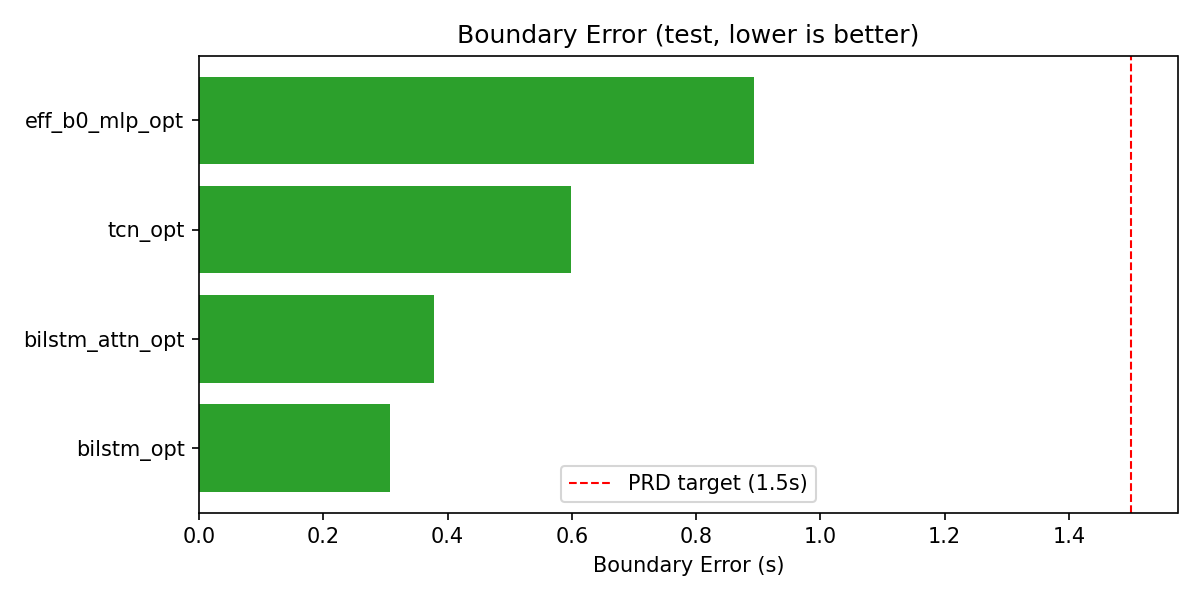
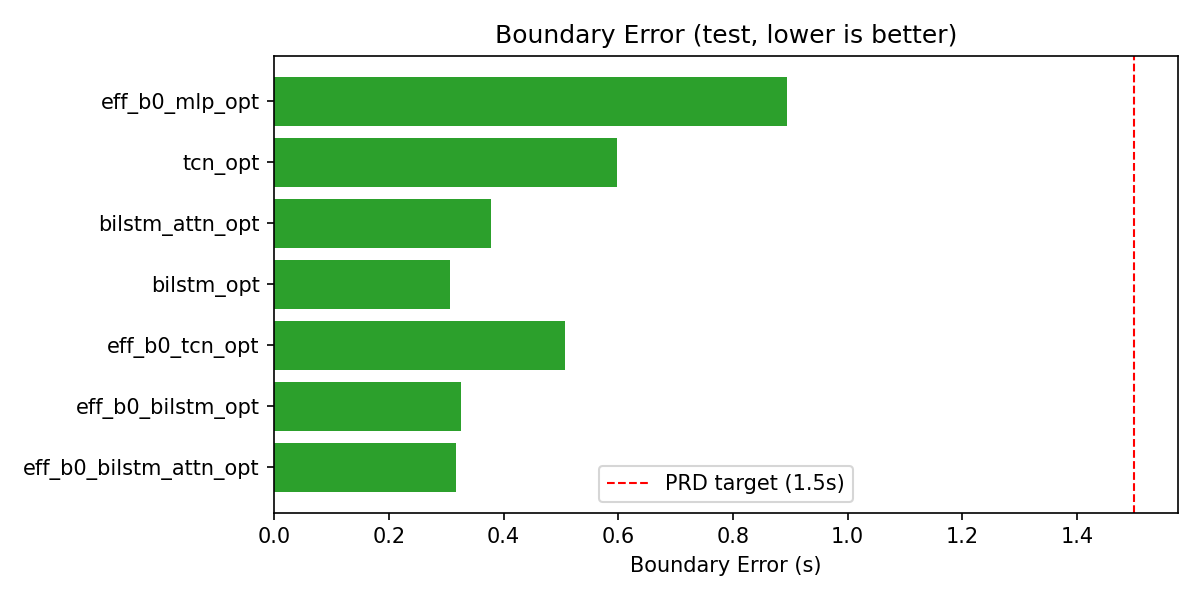
com

diff --git a/src/scripts/generate_plots.py b/src/scripts/generate_plots.py
@@ -59,16 +59,18 @@ PLOTS_DIR = ROOT / "data" / "plots" / "results"
 
 # fmt: off
 # name, map3, map5, map7, precision, recall, be, fps_k, size_mb, valid_map5
+# Источник: compare_models.py, seed=42, opt-конфиг, test split, RTX 5060 Ti
+# Дата последнего измерения: 2026-03-20
 MODELS_SEED42 = [
     # name                      map3   map5   map7   prec   rec    be     fps_k    size_mb  valid_map5
-    ("mv3_small",               0.000, 0.000, 0.000, 0.000, 0.000, None,  1908.3,  4.1,    0.091),
-    ("mv3_bilstm",              0.765, 0.771, 0.617, 0.658, 0.841, 0.310, 237.3,   9.7,    0.795),
-    ("mv3_bilstm_attn",         0.645, 0.687, 0.516, 0.691, 0.794, 0.380, 319.7,   10.6,   0.701),
-    ("mv3_tcn",                 0.690, 0.560, 0.338, 0.568, 0.698, 0.600, 534.4,   7.5,    0.560),
-    ("eff_b0_mlp",              0.182, 0.182, 0.091, 0.545, 0.159, 0.890, 1220.4,  16.5,   0.182),
-    ("eff_b0_bilstm",           0.874, 0.791, 0.762, 0.875, 0.857, 0.330, 147.4,   22.3,   0.894),
-    ("eff_b0_bilstm_attn",      0.857, 0.788, 0.750, 0.833, 0.889, 0.320, 10.1,    87.6,   0.895),
-    ("eff_b0_tcn",              0.977, 0.900, 0.863, 1.000, 1.000, 0.510, 405.4,   21.5,   0.810),
+    ("mv3_small",               0.000, 0.000, 0.000, 0.000, 0.000, None,  1908.3,  4.1,    0.091),  # base конфиг, FPS не переизмерен
+    ("mv3_bilstm",              0.771, 0.771, 0.750, 0.757, 0.841, 0.307, 220.8,   6.4,    0.795),
+    ("mv3_bilstm_attn",         0.762, 0.687, 0.565, 0.758, 0.794, 0.378, 260.3,   6.2,    0.701),
+    ("mv3_tcn",                 0.735, 0.560, 0.295, 0.595, 0.698, 0.598, 499.4,   7.5,    0.560),
+    ("eff_b0_mlp",              0.182, 0.182, 0.091, 0.667, 0.159, 0.894, 883.0,   16.5,   0.182),
+    ("eff_b0_bilstm",           0.791, 0.791, 0.774, 0.771, 0.857, 0.325, 191.8,   20.3,   0.894),
+    ("eff_b0_bilstm_attn",      0.853, 0.788, 0.774, 0.700, 0.889, 0.316, 7.8,     45.1,   0.895),
+    ("eff_b0_tcn",              0.900, 0.900, 0.708, 0.568, 1.000, 0.507, 345.1,   22.0,   0.810),
 ]
 # fmt: on
 
@@ -302,13 +304,6 @@ def fig4_fps_vs_map() -> None:
         ax.annotate(DISPLAY[name], (fps, map5),
                     textcoords="offset points", xytext=(8, 4),
                     fontsize=9, color="black")
-
-    # S3D референс (ConElGym_v2)
-    ax.scatter(18000, 0.993, s=200, color="#5C6BC0", marker="*",
-               edgecolors="black", linewidths=0.8, zorder=4)
-    ax.annotate("S3D+BiLSTM+Att\n(v2, offline)", (18000, 0.993),
-                textcoords="offset points", xytext=(8, -20),
-                fontsize=8.5, color="#5C6BC0", style="italic")
 
     ax.set_xscale("log")
     ax.set_xlabel("FPS (inference, RTX 5060 Ti, log scale)")
